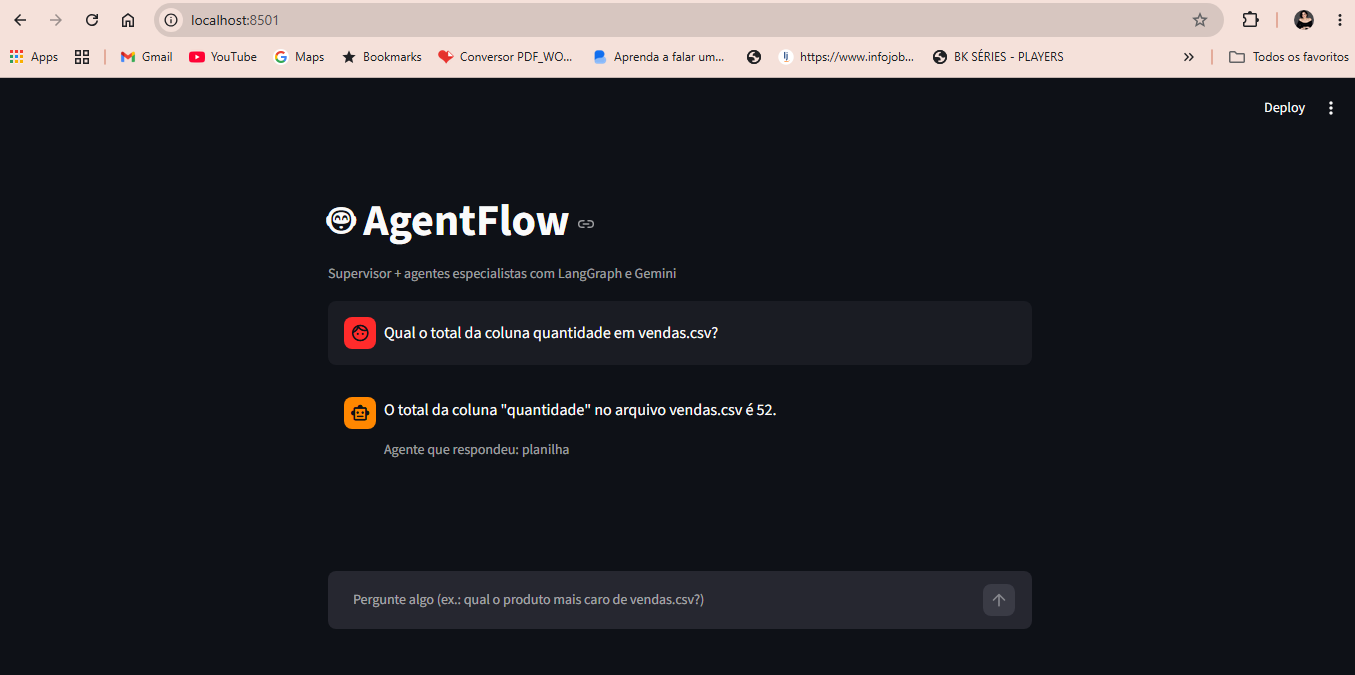
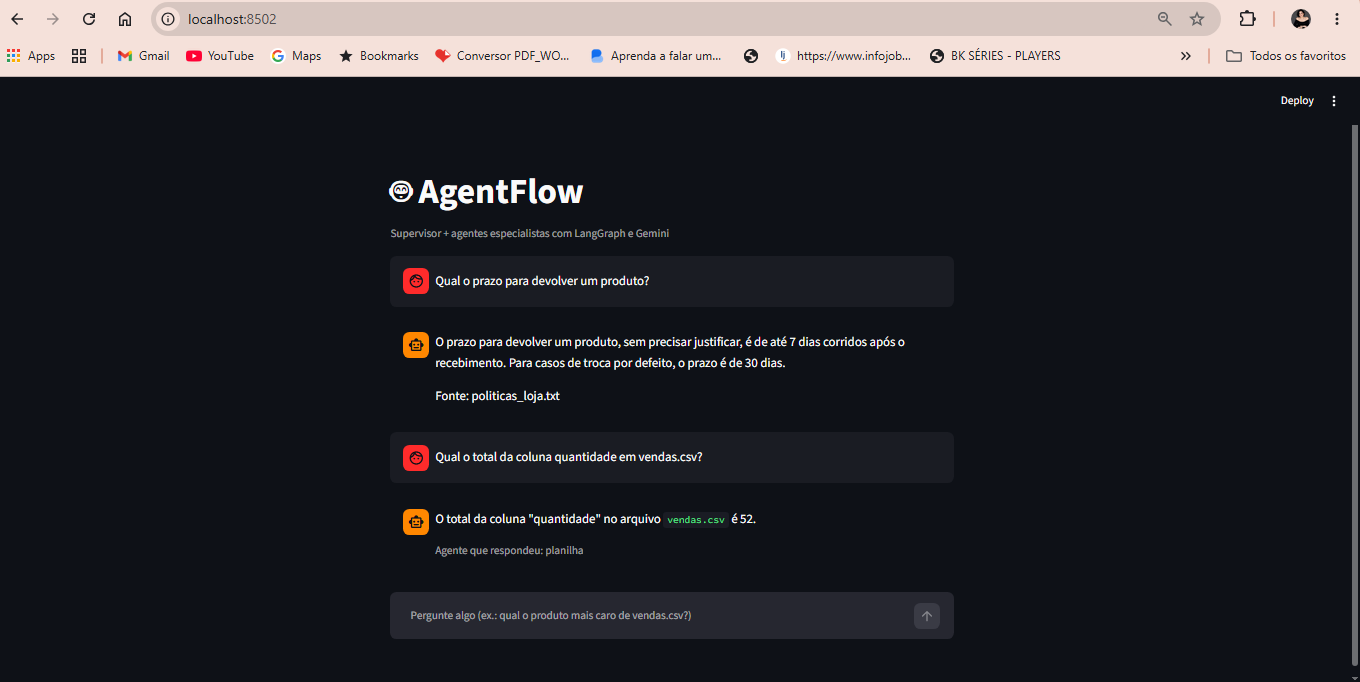
feat: RAG integrado ao supervisor multiagente

diff --git a/src/agentflow/agente_multiagente.py b/src/agentflow/agente_multiagente.py
@@ -11,6 +11,7 @@ from pydantic import BaseModel
 # Reaproveita as ferramentas que você já criou
 from agente_planilha import ler_planilha, somar_coluna
 from agente_ferramentas import somar, data_e_hora_atual
+from agente_rag import buscar_documentos
 
 load_dotenv()
 
@@ -23,13 +24,15 @@ class Estado(MessagesState):
 
 
 class Decisao(BaseModel):
-    agente: Literal["planilha", "calculo", "geral"]
+    agente: Literal["planilha", "calculo", "loja", "geral"]
 
 
 INSTRUCAO_SUPERVISOR = (
     "Você é um supervisor. Leia a pergunta do usuário e escolha o agente certo:\n"
     "- planilha: perguntas sobre arquivos CSV ou planilhas (vendas.csv)\n"
     "- calculo: somas de números, data ou hora atual\n"
+    "- loja: políticas da loja Techponto (troca, devolução, garantia, frete, "
+    "pagamento, atendimento)\n"
     "- geral: qualquer outra pergunta"
 )
 
@@ -66,6 +69,13 @@ agente_calculo = criar_agente(
     [somar, data_e_hora_atual],
     "Você é o especialista em cálculos e data/hora. Use as ferramentas.",
 )
+agente_loja = criar_agente(
+    [buscar_documentos],
+    "Você é o assistente da loja Techponto. Use SEMPRE a ferramenta "
+    "buscar_documentos, responda apenas com base nos trechos encontrados e cite a "
+    "fonte (nome do arquivo). Se a informação não estiver nos documentos, diga que "
+    "não encontrou, sem inventar.",
+)
 agente_geral = criar_agente(
     [],
     "Você é um assistente geral. Responda de forma curta e em português.",
@@ -101,16 +111,23 @@ workflow = StateGraph(Estado)
 workflow.add_node("supervisor", supervisor)
 workflow.add_node("planilha", chamar(agente_planilha))
 workflow.add_node("calculo", chamar(agente_calculo))
+workflow.add_node("loja", chamar(agente_loja))
 workflow.add_node("geral", chamar(agente_geral))
 
 workflow.add_edge(START, "supervisor")
 workflow.add_conditional_edges(
     "supervisor",
     lambda state: state["proximo"],
-    {"planilha": "planilha", "calculo": "calculo", "geral": "geral"},
+    {
+        "planilha": "planilha",
+        "calculo": "calculo",
+        "loja": "loja",
+        "geral": "geral",
+    },
 )
 workflow.add_edge("planilha", END)
 workflow.add_edge("calculo", END)
+workflow.add_edge("loja", END)
 workflow.add_edge("geral", END)
 
 grafo = workflow.compile()
@@ -118,8 +135,8 @@ grafo = workflow.compile()
 
 if __name__ == "__main__":
     perguntas = [
+        "Qual o prazo de garantia do monitor?",
         "Qual o total da coluna quantidade em vendas.csv?",
-        "Que dia e hora são agora?",
     ]
 
     for i, pergunta in enumerate(perguntas):

diff --git a/README.md b/README.md
@@ -2,7 +2,7 @@
 
 Plataforma de automação com agentes de IA, construída com **LangGraph** e **Gemini**.
 
-O projeto evolui por etapas: de um grafo simples até agentes que usam ferramentas, leem dados, lembram da conversa, trabalham em equipe com um supervisor, têm interface web e consultam documentos com RAG.
+O projeto evolui por etapas: de um grafo simples até um sistema multiagente que usa ferramentas, lê planilhas, consulta documentos com RAG, lembra da conversa e tem interface web.
 
 ![Interface do AgentFlow](docs/demo.png)
 
@@ -14,9 +14,9 @@ O projeto evolui por etapas: de um grafo simples até agentes que usam ferrament
 | `agente_ferramentas.py` | Agente que decide sozinho entre responder direto ou usar ferramentas (soma e data/hora) |
 | `agente_planilha.py` | Agente que lê planilhas CSV e responde perguntas sobre os dados |
 | `agente_memoria.py` | Agente que lembra da conversa (memória por `thread_id`) |
-| `agente_multiagente.py` | Supervisor que delega a pergunta para agentes especialistas |
-| `app_web.py` | Interface web de chat (Streamlit) sobre o sistema multiagente |
 | `agente_rag.py` | Agente RAG: busca em documentos e responde citando a fonte |
+| `agente_multiagente.py` | Supervisor que delega a pergunta para 4 agentes especialistas |
+| `app_web.py` | Interface web de chat (Streamlit) sobre o sistema multiagente |
 
 ## Como o agente funciona
 
@@ -30,8 +30,10 @@ O modelo analisa a pergunta e **decide** se responde direto ou chama uma ferrame
 
 ```
                  +--> planilha (ler_planilha, somar_coluna)
-START -> supervisor --> calculo (somar, data_e_hora_atual)
-                 +--> geral (sem ferramentas)
+                 +--> calculo  (somar, data_e_hora_atual)
+START -> supervisor
+                 +--> loja     (buscar_documentos, RAG)
+                 +--> geral    (sem ferramentas)
 ```
 
 O **supervisor** lê a pergunta e escolhe qual agente especialista vai respondê-la. Cada especialista tem as suas próprias ferramentas e instruções. A interface web mostra, abaixo de cada resposta, qual agente respondeu.
@@ -52,4 +54,110 @@ pergunta -> busca por similaridade -> trechos relevantes -> agente responde com 
 ### Agente com ferramentas
 
 ```
-Pergunta: Qual o total da coluna quantidade em
+Pergunta: Qual o total da coluna quantidade em vendas.csv?
+  -> Ferramenta usada: somar_coluna {'nome_arquivo': 'vendas.csv', 'coluna': 'quantidade'}
+Resposta: O total da coluna "quantidade" no arquivo vendas.csv é 52.
+```
+
+### Agente com memória
+
+```
+Pergunta: Qual é o produto mais caro de vendas.csv?
+Resposta: O produto mais caro é o Monitor, com um preço de 899,00.
+
+Pergunta: E qual é o mais barato?
+Resposta: O produto mais barato é o Mouse, com um preço de 45,50.
+```
+
+Na segunda pergunta o agente não recebeu o nome da planilha: ele entendeu pelo contexto da conversa.
+
+### RAG
+
+```
+Pergunta: Vocês vendem geladeira?
+  -> Ferramenta usada: buscar_documentos {...}
+Resposta: Não encontrei informações sobre a venda de geladeiras nos documentos da Techponto.
+```
+
+O agente admite que não encontrou a informação, em vez de inventar uma resposta.
+
+### Sistema multiagente (planilhas, cálculos e documentos na mesma conversa)
+
+```
+Pergunta: Qual o prazo de garantia do monitor?
+  [supervisor] escolheu o agente: loja
+  -> Ferramenta usada: buscar_documentos {'pergunta': 'Qual o prazo de garantia do monitor?'}
+Resposta: O prazo de garantia dos monitores é de 24 meses. Fonte: politicas_loja.txt
+
+Pergunta: Qual o total da coluna quantidade em vendas.csv?
+  [supervisor] escolheu o agente: planilha
+  -> Ferramenta usada: somar_coluna {'nome_arquivo': 'vendas.csv', 'coluna': 'quantidade'}
+Resposta: O total da coluna "quantidade" no arquivo vendas.csv é 52.
+```
+
+## Tecnologias
+
+- Python 3.10
+- LangGraph e LangChain
+- Gemini (Google AI Studio): modelo de chat e embeddings
+- Streamlit
+
+## Como rodar
+
+1. Clone o repositório:
+```bash
+git clone https://github.com/kallymeire/agentflow.git
+cd agentflow
+```
+
+2. Crie e ative o ambiente virtual (Windows):
+```bash
+python -m venv .venv
+.venv\Scripts\Activate.ps1
+```
+
+3. Instale as dependências:
+```bash
+pip install -r requirements.txt
+```
+
+4. Crie uma chave em [aistudio.google.com](https://aistudio.google.com), copie o arquivo `.env.example` para `.env` e cole a chave nele. O arquivo `.env` nunca deve ser enviado ao GitHub.
+
+5. Rode a interface web:
+```bash
+streamlit run src\agentflow\app_web.py
+```
+
+Ou rode o sistema multiagente direto no terminal:
+```bash
+python src\agentflow\agente_multiagente.py
+```
+
+> O plano gratuito do Gemini tem limite de chamadas por minuto e por dia. Se aparecer o erro 429, aguarde ou troque a variável `MODELO` no código.
+
+## Estrutura
+
+```
+agentflow/
+├── src/agentflow/       # grafos, agentes e interface web
+├── base_conhecimento/   # documentos usados pelo RAG
+├── dados/               # planilhas de exemplo
+├── docs/                # imagens da documentação
+├── tests/
+├── requirements.txt
+└── .env.example
+```
+
+## Próximos passos
+
+- [x] Memória de conversa
+- [x] Sistema multiagente com supervisor
+- [x] Interface web
+- [x] RAG sobre documentos
+- [x] RAG integrado ao supervisor e à interface web
+- [ ] Controle de custo e uso de tokens
+- [ ] Avaliação e observabilidade
+
+## Autora
+
+Kallymeire Coelho, [GitHub](https://github.com/kallymeire) · [LinkedIn](https://www.linkedin.com/in/kallymeire-coelho-212746263)
